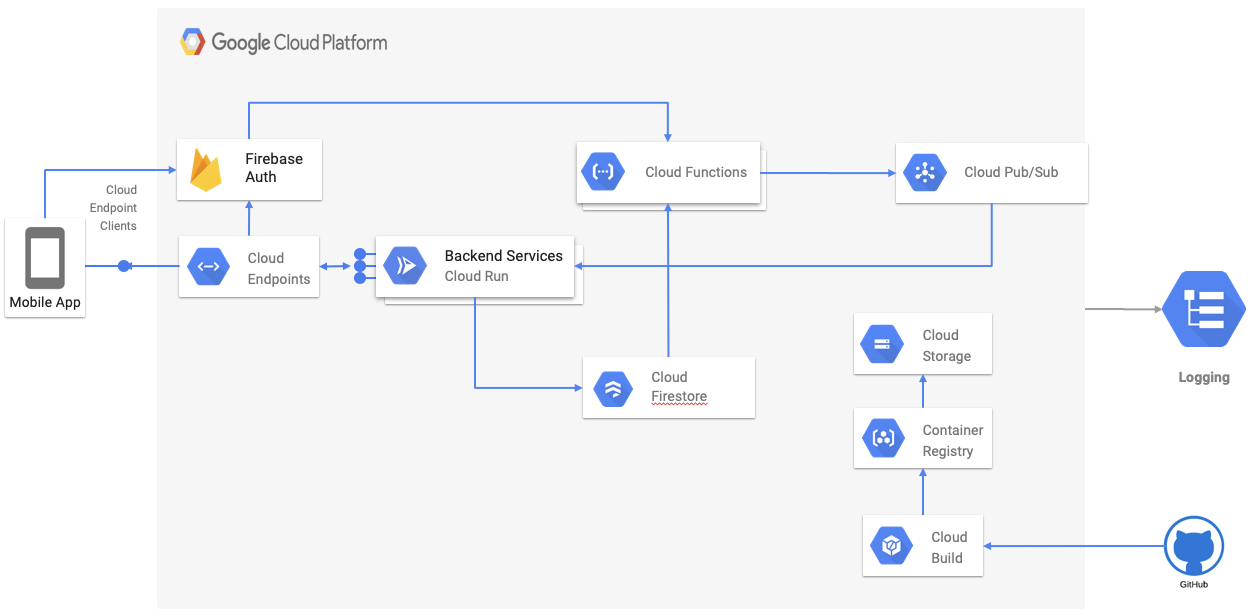
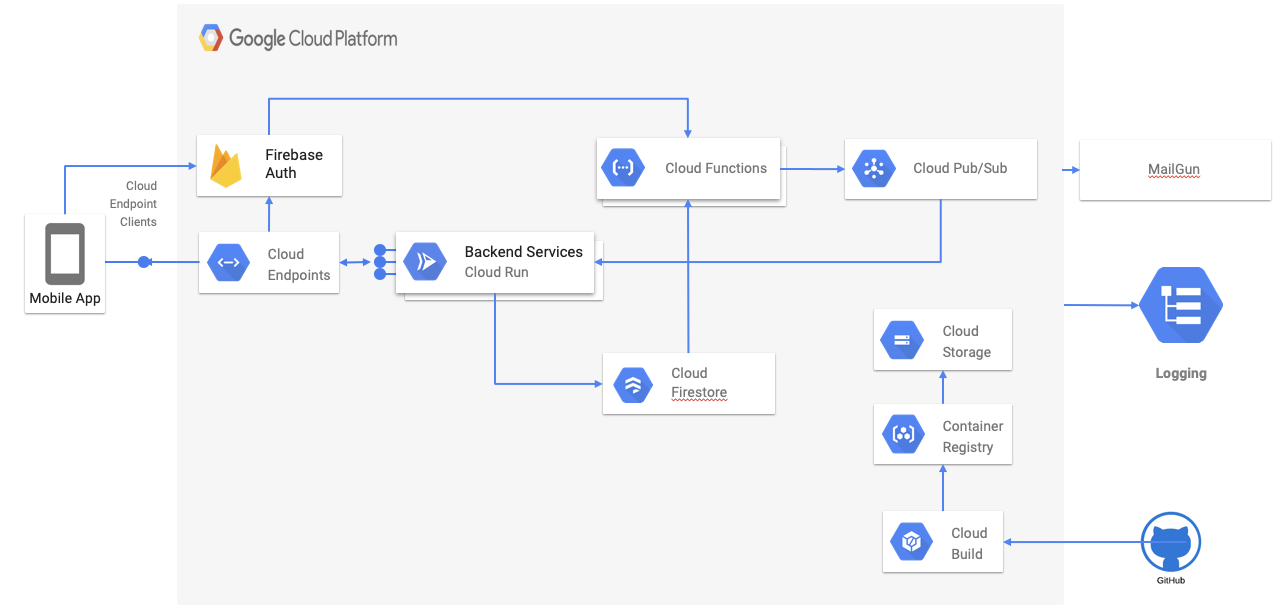
update with mailgun

diff --git a/README.md b/README.md
@@ -27,46 +27,38 @@ Book It is a mobile application that allows its users to schedule appointments w
 The following describes the components that will be used for the application along with statements from the Google docs about the components and some reasoning why we leveraged them for this project:
 
 - [Cloud Endpoints](https://cloud.google.com/endpoints/docs/)
-
   - **What is it?**: Endpoints is an API management system that helps secure, monitor, analyze, and set quotas on APIs using the same infrastructure Google uses for its own APIs.
   - **Why we used it**: This is used at the API Gateway for all backend HTTP(s) based APIs for the project. Cloud Endpoints also provides the means to integrate the backend with authentication of users by enforcing a security policy and delegating token verification to the firebase infrastructure.
 
 - [Cloud Run](https://cloud.google.com/run/docs/)
-
   - **What is it?**: Cloud Run is a managed compute platform that automatically scales stateless containers. Cloud Run is serverless: it abstracts away all infrastructure management, allowing us to focus only on the business application.
   - **Why we used it**: As the compute runtime for most all of the micro-services which make up the bookit-apps backend
 
 - [Cloud Functions](https://cloud.google.com/functions/docs/)
   - **What is it?**: Google Cloud Functions is a lightweight compute solution for developers to create single-purpose, stand-alone functions that respond to Cloud events without the need to manage a server or runtime environment.
   - **Why we used it**: To hook into Firestore and other Firebase triggers to generate background notifications and pubsub event messages
-- [Cloud Firestore](https://cloud.google.com/firestore/docs/)
 
+- [Cloud Firestore](https://cloud.google.com/firestore/docs/)
   - **What is it?**: Cloud Firestore is a NoSQL document database built for automatic scaling, high performance, and ease of application development.
   - **Why we used it**: The backend data storage
 
 - Mobile Application
-
   - **What is it?**: The client application built as a react native application
   - **Why we used it**: To provide the client an front-end ui in both iso/android
 
 - [Cloud Storage](https://cloud.google.com/storage/docs/)
-
   - **What is it?**: Cloud Storage allows world-wide storage and retrieval of any amount of data at any time
-  - **Why we used it**: This was used indirectly to store the binary files for the generated docker images which are deployed into cloud run
-
-- [Firebase Cloud Messaging]()
-
-  - **What is it?**:
-  - **Why we used it**: This was going to be leveraged for push notifications. However, due to time constraints this was not yet implemented.
+  - **Why we used it**: This was used indirectly to store the docker images which are deployed into cloud run
 
 - [Firebase Auth](https://firebase.google.com/docs/auth)
-
   - **What is it?**: Firebase Auth allows for a quick and easy way to set-up user authentication
   - **Why we used it**: Used to provider a user based for the application and means to onboard, and authenticate end users to the application
 
 - [Logging & Stackdriver](https://cloud.google.com/stackdriver/docs/)
   - What is it?: Application Logging and application monitoring tools provided by Google Cloud Platform
   - Why we used it: This is user for monitoring and understanding of what is going on within the application are runtime
+
+- [MailGun](https://www.mailgun.com/): External service used to send emails from the cloud application
 
 ### Application Level Architecture
 
